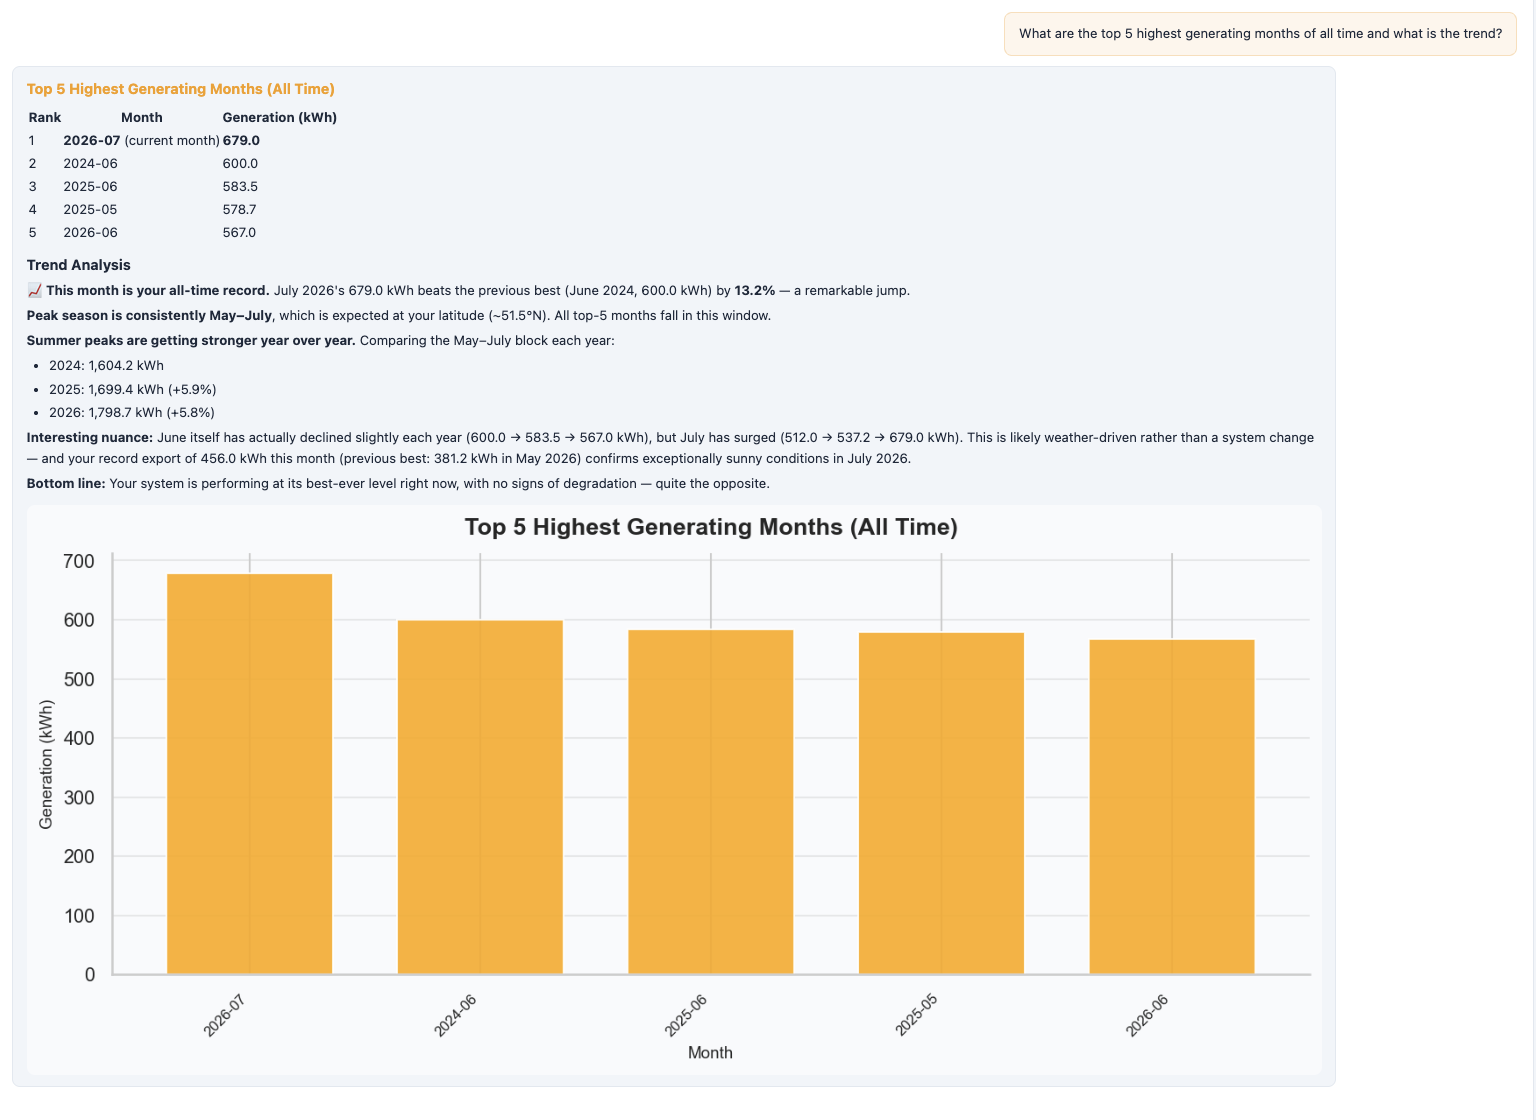
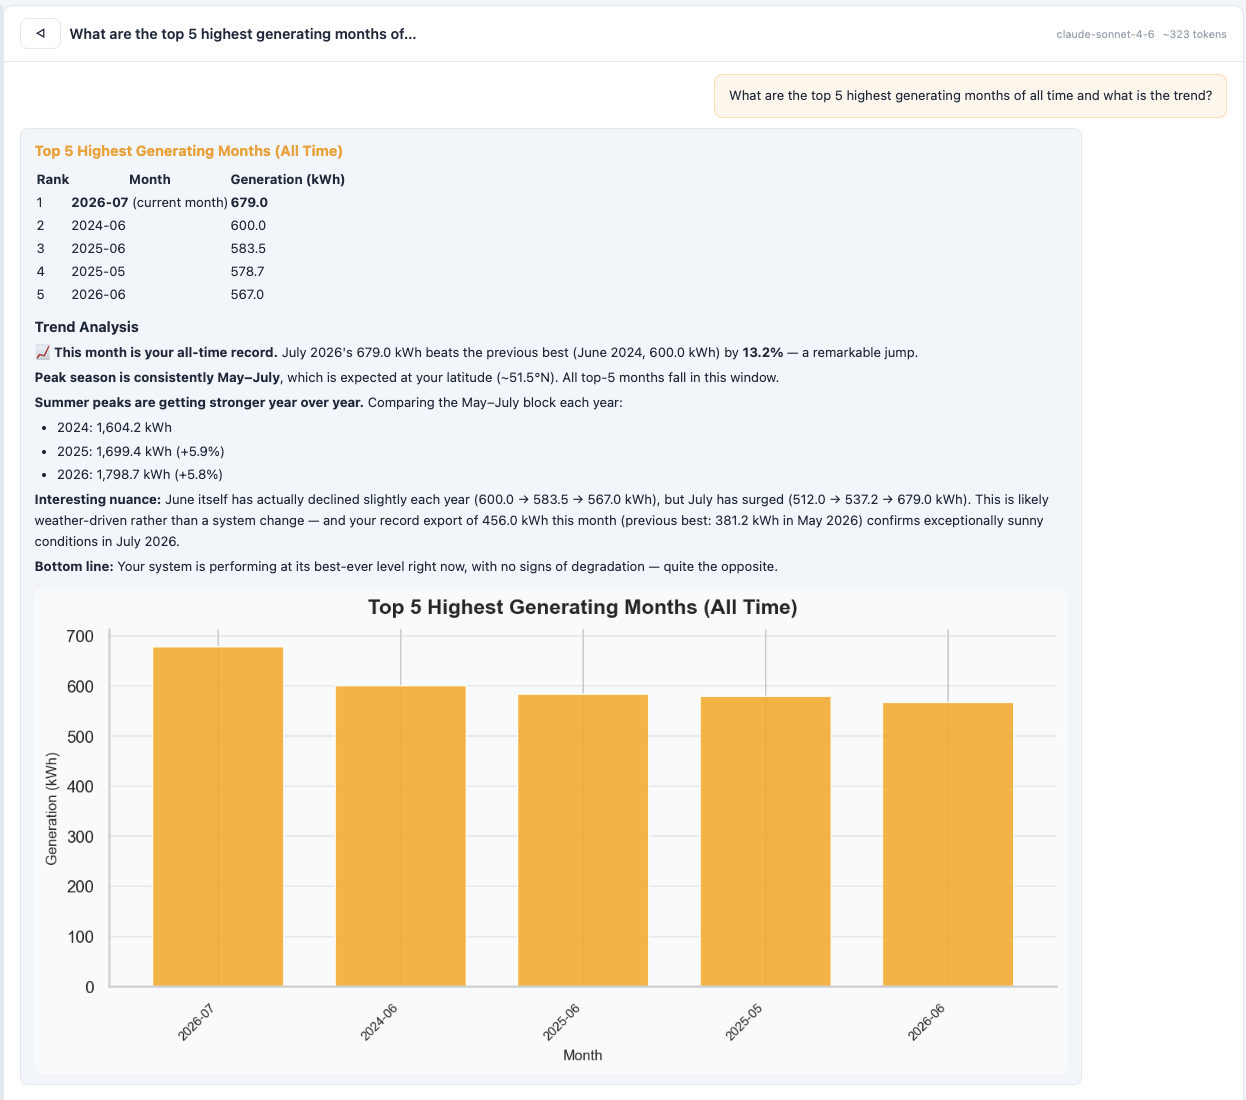
Update "From Opus to Open Weights" with new doc content
Adds the new "Prompt Caching support" section (DigitalOcean vs.
OpenRouter caching approaches), expands the usage-data bullet list and
the Kimi K3 streaming/latency paragraph, and swaps in the updated Solar
Dashboard AI Assistant screenshot (now shows the full chat UI). Also
cleans up a tracking-laden URL down to its base link.

Changed region(s): [[0.0, 0.0, 0.8539, 1.0], [0.5795, 0.0, 1.0, 0.0927], [0.7014, 0.5564, 0.8234, 0.9582]]

diff --git a/CHANGES.md b/CHANGES.md
@@ -454,6 +454,25 @@ skill listing hadn't refreshed): transcoded
 directory, wired via audioUrl/audioTitle frontmatter plus the
 podcast.xml AUDIO_BYTES map, verified locally.
 
+## `96fc4cc` — Update "From Opus to Open Weights" with new doc content
+
+Re-fetched the Google Doc and diffed it against the already-published
+post to find the green-highlighted additions (the Drive text-export
+doesn't preserve highlight colour, so a straight diff was the reliable
+way to isolate exactly what changed): a new closing sentence on the
+"zero cache-read/cache-write" bullet, an entirely new "**Prompt Caching
+support**" section (DigitalOcean's automatic-but-best-effort caching vs.
+OpenRouter's sticky-routing + full response cache), and three new
+sentences on streaming/latency in the Kimi K3 section. Also re-exported
+the doc as .docx and checksummed all 7 embedded images against what's
+already in the repo — only the Solar Dashboard AI Assistant screenshot
+had actually changed (now shows the full chat UI — model name, token
+count, the question asked — not just the cropped result card), despite
+being asked about it as two separate things ("the AI Assistant image"
+and "the snapshot"); the pi.dev console snapshot is byte-identical to
+what's already committed. Also cleaned up a messy Google-Ads tracking
+URL on the "intelligent inference router" link down to its base URL.
+
 ## Related, outside this repo
 
 - **Droplet podcast audio setup.** Added a scoped `NOPASSWD` sudoers rule
